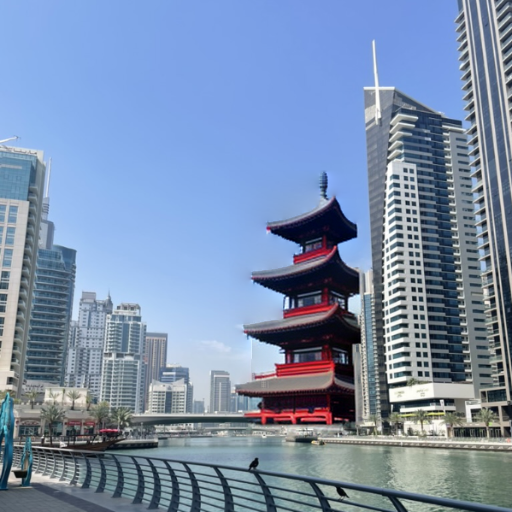
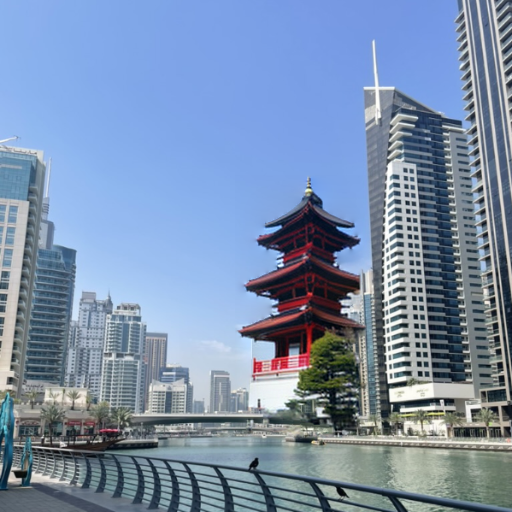
modify Unet with FreeU

Changed region(s): [[0.4375, 0.3438, 0.75, 0.875], [0.4062, 0.8438, 0.4375, 0.875]]

diff --git a/improved_pipeline_v8.py b/improved_pipeline_v8.py
@@ -1,0 +1,194 @@
+from vanilla_pipeline import InpaintPipeline
+import torch
+import numpy as np
+import cv2 as cv
+from PIL import Image
+import torchvision.transforms.functional as TF
+
+
+# 1. Strict Binary Dilation Mask (No blur here, we want strict latent boundaries!)
+def mask_op(image):
+    mask_np = np.array(image)
+    _, mask_np = cv.threshold(mask_np, 127, 255, cv.THRESH_BINARY)
+    
+    # Large dilation to give the AI a canvas to cast shadows
+    dilate_kernel = np.ones((15, 15), np.uint8)
+    mask_np = cv.dilate(mask_np, dilate_kernel, iterations=1)
+    
+    return Image.fromarray(mask_np).resize((64, 64), Image.LANCZOS)
+
+class ImprovedInpaintPipeline(InpaintPipeline):
+    def __init__(self):
+        super().__init__()
+        # Override the mask operation specifically for the improved pipeline
+        self.__class__.MASK_DEFAULT_PREPROC_OP = staticmethod(mask_op)
+
+        # Use special values found in FreeU paper
+        self.unet.enable_freeu(s1=0.9, s2=0.2, b1=1.2, b2=1.4)
+
+    @torch.no_grad()
+    def denoise(self, text_embeddings, init_latents, mask_tensor, num_inference_steps=50):
+        self.scheduler.set_timesteps(num_inference_steps, device=self.device)
+        latents = torch.randn_like(init_latents)
+
+        # 2. Strict Vanilla Latent Blending
+        # This guarantees the background (onions) stays safe, while the AI draws the cupcake
+        for i, t in enumerate(self.scheduler.timesteps):
+            latent_model_input = torch.cat([latents] * 2)
+            latent_model_input = self.scheduler.scale_model_input(latent_model_input, t)
+
+            noise_pred = self.unet(latent_model_input, t, encoder_hidden_states=text_embeddings).sample
+
+            noise_pred_uncond, noise_pred_text = noise_pred.chunk(2)
+            noise_pred = noise_pred_uncond + 7.5 * (noise_pred_text - noise_pred_uncond)
+
+            latents = self.scheduler.step(noise_pred, t, latents).prev_sample
+
+            if i < len(self.scheduler.timesteps) - 1:
+                t_next = self.scheduler.timesteps[i + 1]
+            else:
+                t_next = torch.tensor([0], device=self.device)
+
+            # --- ANNEALED MASK LOGIC ---
+            # Calculate how much to blur based on how far along we are in the loop.
+            # It starts at sigma=5.0 (very blurry) and drops to sigma=0.1 (basically binary)
+            progress = i / len(self.scheduler.timesteps)
+            current_sigma = max(0.1, 2.0 * (1.0 - progress))
+            
+            # Apply the dynamic blur to the base mask tensor
+            # We use an odd kernel size (15) and our decaying sigma
+            dynamic_mask = TF.gaussian_blur(mask_tensor, kernel_size=5, sigma=current_sigma)
+
+            # Blend using the dynamic mask!
+            noise = torch.randn_like(init_latents)
+            noisy_init_latents = self.scheduler.add_noise(init_latents, noise, t_next)
+            latents = (noisy_init_latents * (1 - dynamic_mask)) + (latents * dynamic_mask)
+
+        return latents
+
+
+    @torch.no_grad()
+    def pipe(self, pipe_in):
+        # We need a 512x512 mask for math. Our mask_op downscaled it to 64x64.
+        mask_64 = pipe_in.mask_image
+        mask_512 = mask_64.resize((512, 512), Image.NEAREST)
+        mask_cv = np.array(mask_512)
+
+        # 1. Prepare mask for contour detection (handles multiple separate masks!)
+        if len(mask_cv.shape) == 3:
+            mask_cv_gray = cv.cvtColor(mask_cv, cv.COLOR_RGB2GRAY)
+        else:
+            mask_cv_gray = mask_cv
+
+        # Find all distinct masked blobs in the image
+        contours, _ = cv.findContours(mask_cv_gray, cv.RETR_EXTERNAL, cv.CHAIN_APPROX_SIMPLE)
+
+        # If the user passed a completely black mask, just return the original image
+        if not contours:
+            return pipe_in.init_image.copy()
+
+        # This will hold our rolling updates as we process one mask at a time
+        current_bg = pipe_in.init_image.copy()
+
+        # Process each disconnected mask individually
+        for contour in contours:
+            # Find the bounding box for THIS specific mask blob
+            x, y, w, h = cv.boundingRect(contour)
+
+            # 2. FILTER NOISE: Skip tiny accidental brush strokes
+            if w < 5 or h < 5:
+                continue
+
+            # 3. SMART CROP: Calculate a square box with 50% padding
+            side = int(max(w, h) * 1.5)
+            side = max(side, 128)  # Don't crop too small
+            side = min(side, 512)  # Don't crop bigger than the image
+
+            # Calculate the top-left corner of the crop
+            cx, cy = x + w // 2, y + h // 2
+            x1 = max(0, cx - side // 2)
+            y1 = max(0, cy - side // 2)
+
+            # Keep it strictly inside the image bounds
+            if x1 + side > 512: x1 = 512 - side
+            if y1 + side > 512: y1 = 512 - side
+
+            crop_box = (x1, y1, x1 + side, y1 + side)
+
+            # 4. ISOLATE MASK & ZOOM IN: Create a temporary mask that ONLY contains this specific shape
+            local_mask_cv = np.zeros_like(mask_cv_gray)
+            cv.drawContours(local_mask_cv, [contour], -1, 255, thickness=cv.FILLED)
+            local_mask_pil = Image.fromarray(local_mask_cv)
+
+            # Zoom in the background and the isolated mask
+            cropped_init = current_bg.crop(crop_box).resize((512, 512), Image.LANCZOS)
+            cropped_mask = local_mask_pil.crop(crop_box).resize((64, 64), Image.NEAREST)
+
+            # Manually encode these zoomed-in crops to latents
+            image_np = np.array(cropped_init).astype(np.float32) / 127.5 - 1.0
+            image_tensor = torch.from_numpy(image_np).permute(2, 0, 1).unsqueeze(0).to(self.device)
+            init_latents = self.SD_SCALE_FACTOR * self.vae.encode(image_tensor).latent_dist.sample()
+
+            mask_np = np.array(cropped_mask).astype(np.float32) / 255.0
+            mask_tensor = torch.from_numpy(mask_np).unsqueeze(0).unsqueeze(0).to(self.device)
+
+            # 5. GENERATE: Run the AI on the zoomed-in space!
+            text_embeddings = self.encode_prompt(pipe_in.prompt, self.text_encoder, self.tokenizer)
+            latents = self.denoise(text_embeddings, init_latents, mask_tensor)
+            ai_generated_crop = self.decode_latents(latents)
+
+            # ==========================================
+            # 6. DYNAMIC DELTA MASKING (The Rigorous Fix)
+            # ==========================================
+            # Calculate exactly which pixels the AI changed in the high-res space
+            orig_crop_np = np.array(cropped_init)
+            ai_crop_np = np.array(ai_generated_crop)
+
+            # Absolute mathematical difference between original and new AI image
+            diff = cv.absdiff(orig_crop_np, ai_crop_np)
+            diff_gray = cv.cvtColor(diff, cv.COLOR_RGB2GRAY)
+
+            # Threshold: If a pixel changed by more than 15 color values, it is part of the new object!
+            _, dynamic_mask_highres = cv.threshold(diff_gray, 15, 255, cv.THRESH_BINARY)
+
+            # Clean up the mask and slightly dilate it to fully engulf the new object's edges
+            dynamic_mask_highres = cv.morphologyEx(dynamic_mask_highres, cv.MORPH_OPEN, np.ones((5, 5), np.uint8))
+            dynamic_mask_highres = cv.dilate(dynamic_mask_highres, np.ones((9, 9), np.uint8), iterations=1)
+
+            # Shrink the image AND our new dynamic mask back to the target size
+            ai_generated_crop_restored = ai_generated_crop.resize((side, side), Image.LANCZOS)
+            dynamic_mask_small = Image.fromarray(dynamic_mask_highres).resize((side, side), Image.NEAREST)
+            dynamic_mask_small_cv = np.array(dynamic_mask_small)
+
+            # Paste the raw square back onto the background
+            full_ai_image = current_bg.copy()
+            full_ai_image.paste(ai_generated_crop_restored, (x1, y1))
+
+            # ==========================================
+            # 7. POISSON BLEND: Using the Delta Mask!
+            # ==========================================
+            # Create a blank 512x512 mask and place our dynamic shape exactly where the crop was
+            final_clone_mask = np.zeros((512, 512), dtype=np.uint8)
+            final_clone_mask[y1:y1+side, x1:x1+side] = dynamic_mask_small_cv
+
+            src = np.array(full_ai_image)
+            dst = np.array(current_bg)
+
+            # We need 3 channels for seamlessClone
+            final_clone_mask_color = cv.cvtColor(final_clone_mask, cv.COLOR_GRAY2RGB)
+
+            # Find the exact center and bounding box of the newly calculated dynamic shape
+            x_d, y_d, w_d, h_d = cv.boundingRect(final_clone_mask)
+
+            if w_d > 0 and h_d > 0:
+                center = (x_d + w_d // 2, y_d + h_d // 2)
+                try:
+                    # Normal clone shifts colors to match the background lighting
+                    blended_np = cv.seamlessClone(src, dst, final_clone_mask_color, center, cv.NORMAL_CLONE)
+                    current_bg = Image.fromarray(blended_np)
+                except Exception:
+                    # Fallback in case seamlessClone crashes due to edge boundaries
+                    current_bg = full_ai_image
+
+        # Return the fully updated image after ALL masks have been processed
+        return current_bg
